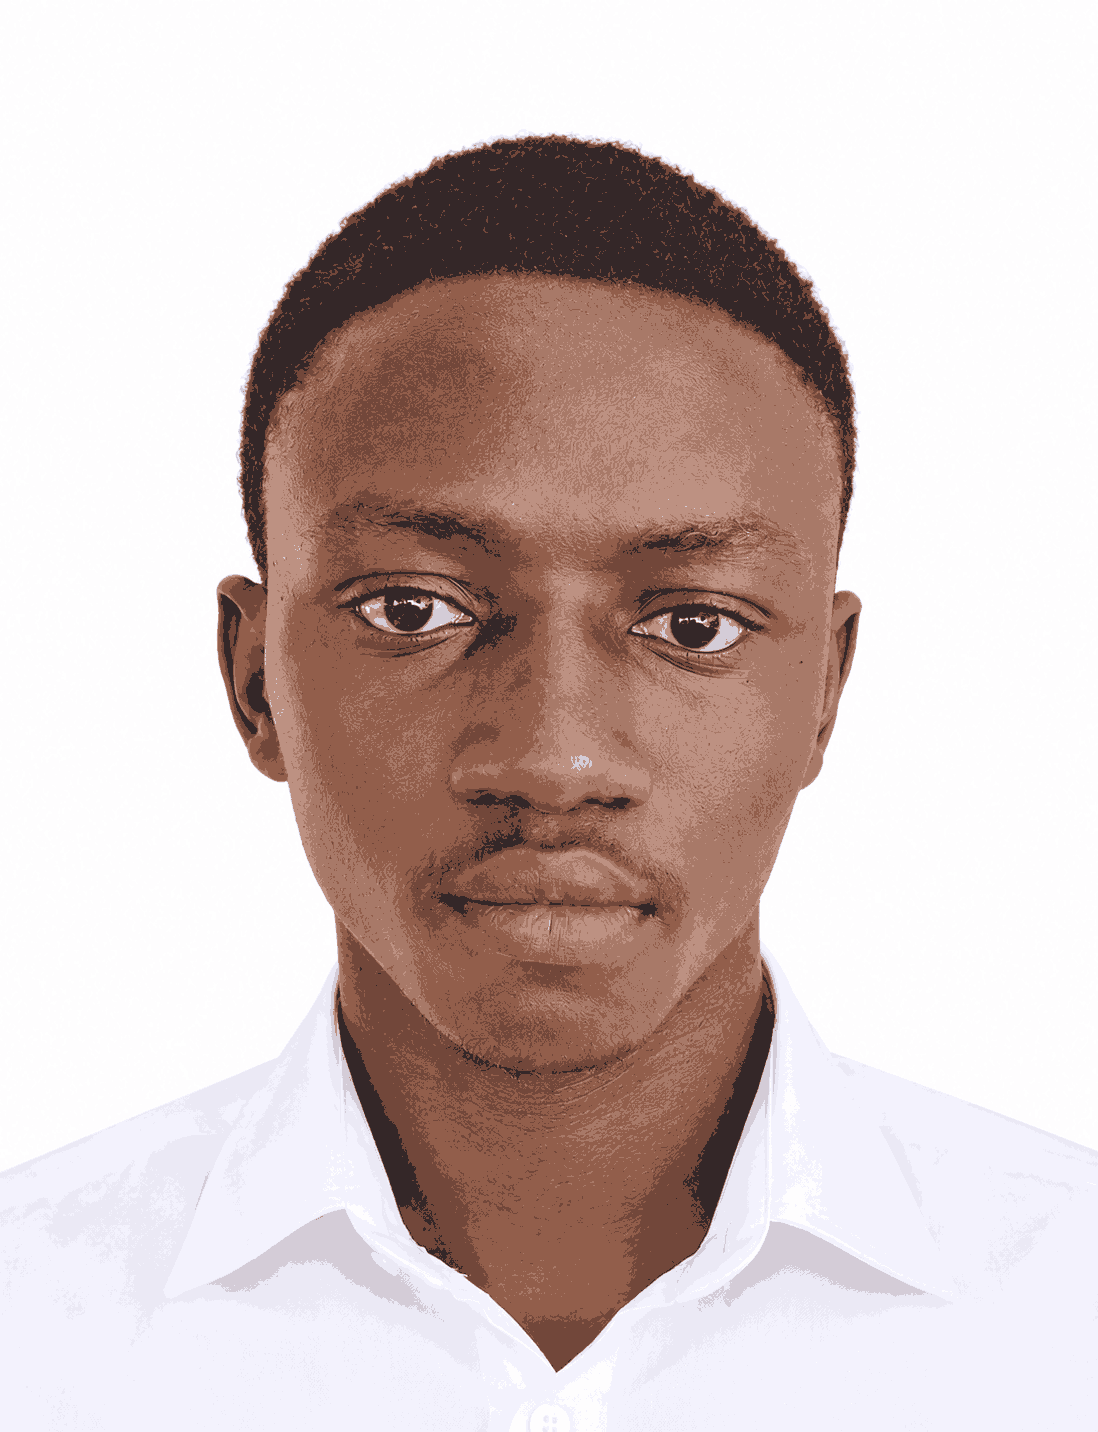
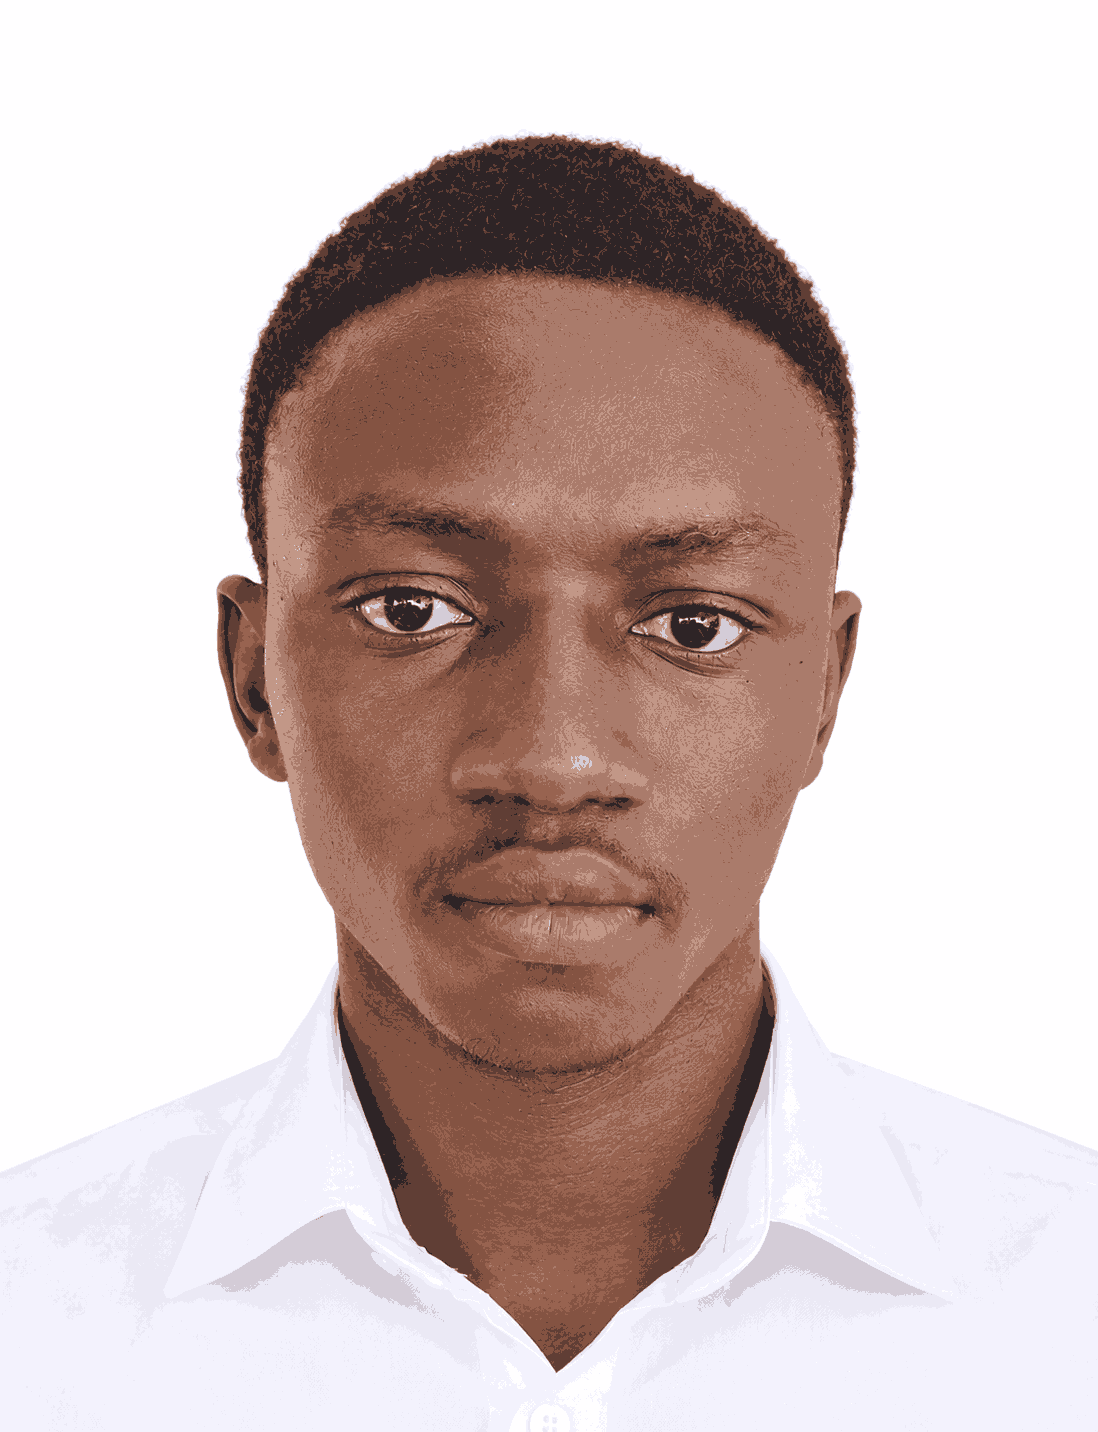
all

diff --git a/index.html b/index.html
@@ -5,7 +5,7 @@
     <meta name="viewport" content="width=device-width, initial-scale=1.0">
     <title>WDD 131 – Dynamic Web Fundamentals – Dominic Ogot</title>
     <meta name="description" content="WDD 131 – Dynamic Web Fundamentals course landing page by Dominic Ogot. Keywords: HTML, CSS, JavaScript, responsive design, web development portfolio.">
-    <meta name="author" content="Dpminic Ogot">
+    <meta name="author" content="Dominic Ogot">
     <link rel="preconnect" href="https://fonts.googleapis.com">
     <link rel="preconnect" href="https://fonts.gstatic.com" crossorigin>
     <link href="https://fonts.googleapis.com/css2?family=Poppins:wght@400;600&family=Lora:wght@400;600&display=swap" rel="stylesheet">
@@ -16,7 +16,7 @@
     <header>
         <span id="course-title">WDD 131 – Dynamic Web Fundamentals</span>
         <nav>
-            <a href="" target="_blank" rel="nohttps://www.linkedin.com/in/dominic-ogot-ab0964242?utm_source=share_via&utm_content=profile&utm_medium=member_androidopener">LinkedIn</a>
+            <a href="https://www.linkedin.com/in/dominic_ogot" target="_blank" rel="noopener">LinkedIn</a>
             <a href="https://byupw.instructure.com/" target="_blank" rel="noopener">Canvas</a>
             <a href="https://www.churchofjesuschrist.org/study/scriptures/bofm/1-ne/3?lang=eng&amp;id=p7#p7" target="_blank" rel="noopener">Scripture</a>
             <a href="#">Final Project</a>
@@ -28,14 +28,18 @@
 
         <section class="card">
             <h2>About Me</h2>
-            <img src="images/dominic_profile.png" alt="Dominic profile picture" width="400" height="250">
-            <p>Hello! I am a student learning the fundamentals of web development. I enjoy building things that people can use, and I am excited to grow my skills in HTML, CSS, and JavaScript.</p>
+            <img src="images/dominic_profile.png" alt="Photo of Dominic Ogot" width="400" height="250">
+            <p>Hello! I am a student at
+            <a href="https://www.byupathway.org/" target="_blank" rel="noopener">BYU-Pathway Worldwide</a>
+            learning the fundamentals of web development. I enjoy building things that people can use, and I am excited to grow my skills in HTML, CSS, and JavaScript.</p>
         </section>
 
         <section class="card">
             <h2>Course Goals</h2>
             <img src="images/goals.svg" alt="Illustration of code brackets and a target" width="400" height="250">
-            <p>In WDD 131 I want to write clean, accessible code, build responsive layouts, and add interactivity with JavaScript. My goal is to finish with a polished final project I am proud to share.</p>
+            <p>In WDD 131 I want to write clean, accessible code, build responsive layouts, and add interactivity with JavaScript, using resources like
+            <a href="https://developer.mozilla.org/" target="_blank" rel="noopener">MDN Web Docs</a>.
+            My goal is to finish with a polished final project I am proud to share.</p>
         </section>
     </main>
 
